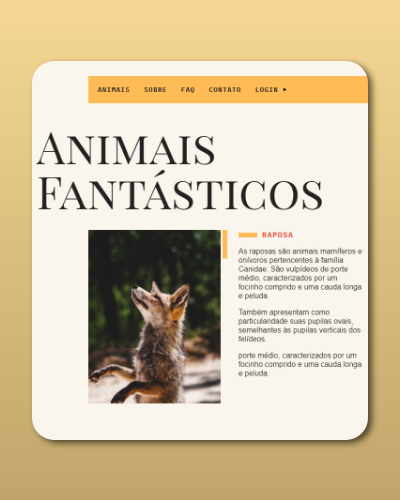
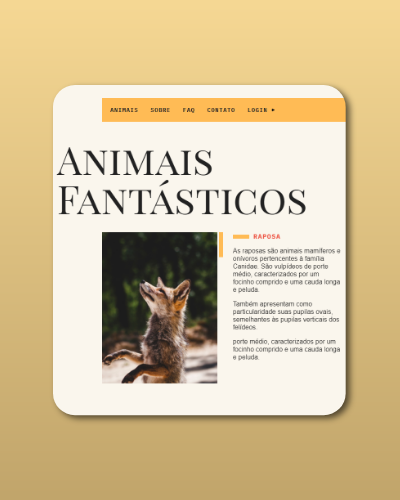
corrigido responsividade (responsivo.css)

diff --git a/css/geral.css b/css/geral.css
@@ -58,6 +58,7 @@ h4 {
 
 .titulo {
   text-align: center;
+  padding-top: 1.2rem;
 }
 
 /* HOME */
@@ -138,8 +139,8 @@ h4 {
 .quebra {
   width: 100%;
   background-color: #302a2a;
-  margin-top: 5rem;
-  margin-bottom: 4rem;
+  margin-top: 5.5rem;
+  margin-bottom: 3.5rem;
   padding: 3rem;
 }
 
@@ -304,7 +305,7 @@ h4 {
   margin: 4rem 0;
 }
 
-.sobreContent section{
+.sobreContent section {
   display: flex;
   justify-content: space-between;
   align-items: center;
@@ -327,8 +328,12 @@ h4 {
 .contato {
   width: 100%;
   background: linear-gradient(var(--color-gradient));
-  margin-top: 4.5rem;
+  margin-top: 6rem;
   padding: 2.5rem 1.5rem 0 1.5rem;
+}
+
+.contato div.titulo {
+  margin-top: -2rem;
 }
 
 .contato .titulo h3 {

diff --git a/css/responsivo.css b/css/responsivo.css
@@ -97,4 +97,26 @@
   .btnMenu {
     display: none;
   }
+
+  .projetos ul li {
+    width: 300px;
+    height: 400px;
+  }
+  .projetos ul li:nth-child(1) {
+    background: url('../imgs/controleImgM.png') no-repeat center center;
+    background-size: cover;
+  }
+  .projetos ul li:nth-child(2) {
+    background: url('../imgs/animaisFantasticosImgM.png') no-repeat center
+      center;
+    background-size: cover;
+  }
+  .projetos ul li:nth-child(3) {
+    background: url('../imgs/cotacoesImgM.png') no-repeat center center;
+    background-size: cover;
+  }
+  .projetos ul li:nth-child(4) {
+    background: url('../imgs/calculoImcImgM.png') no-repeat center center;
+    background-size: cover;
+  }
 }
